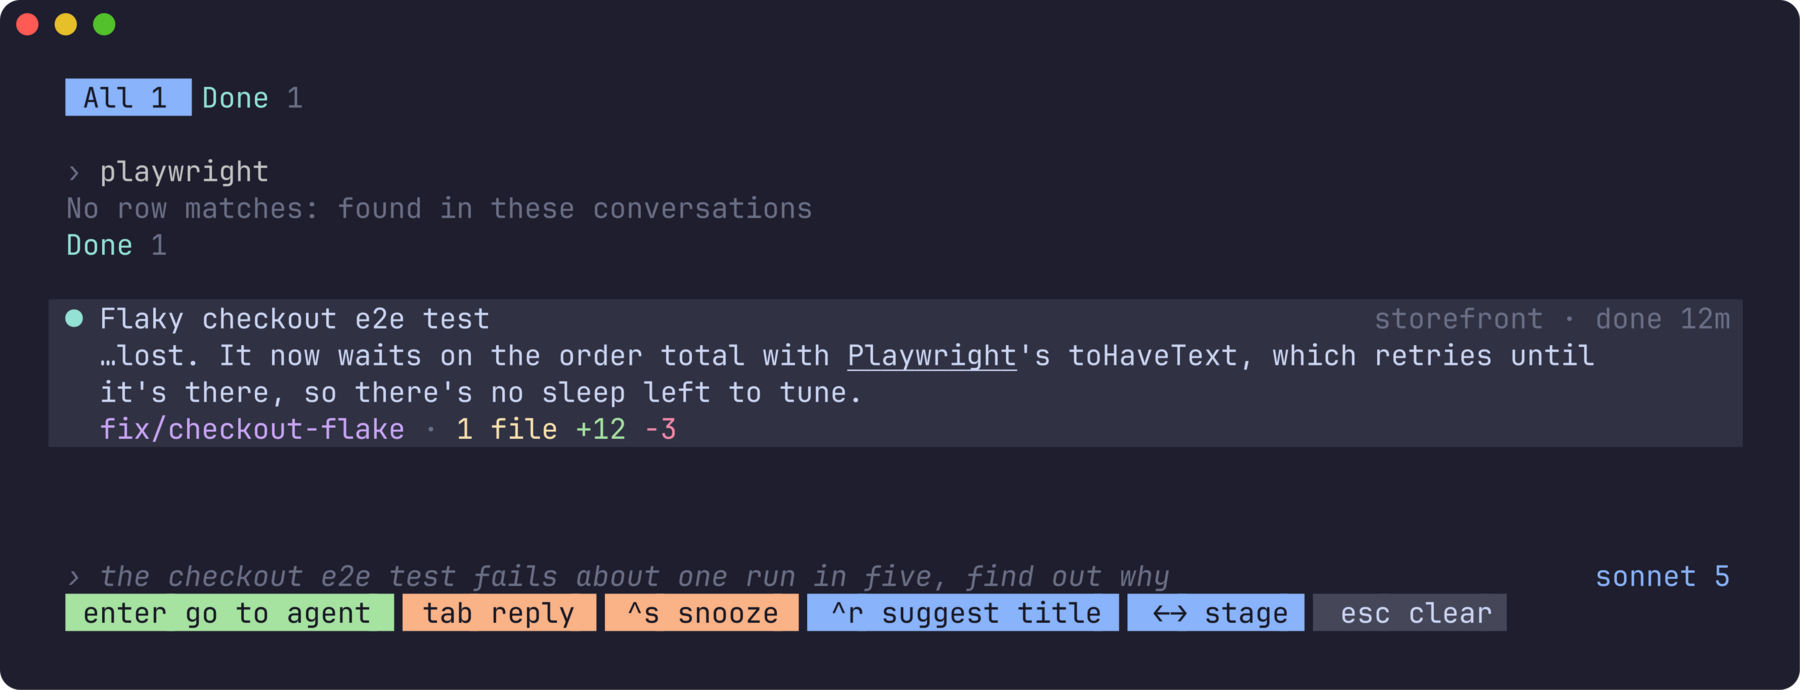
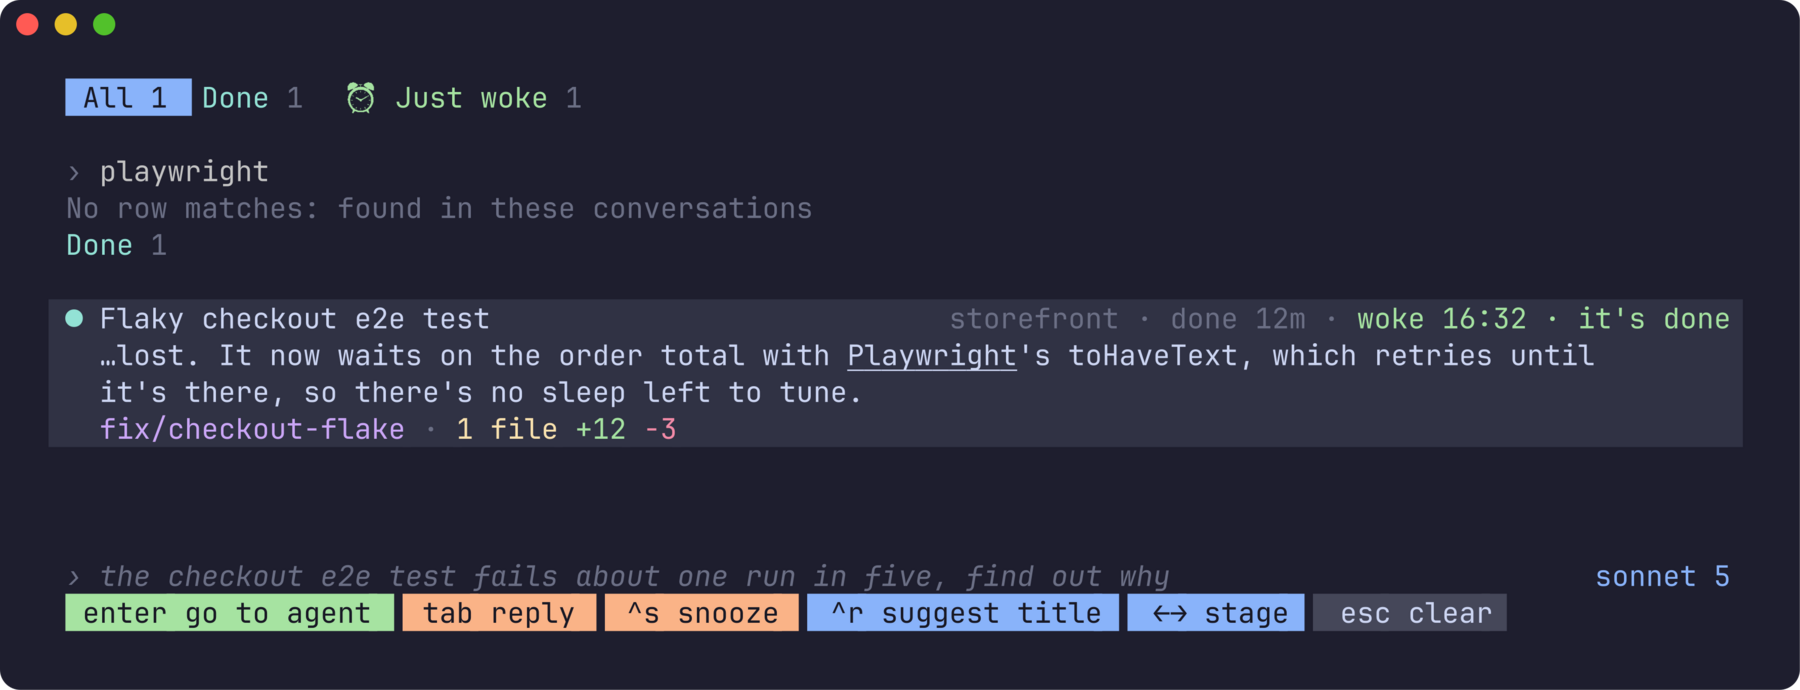
feat: a Just woke tab for what herdr-snooze woke by itself (0.8.0)
An agent with herdr-snooze's snooze_woke token says so on its row
(woke 16:32 · it's done) and is listed under ⏰ Just woke, a tab beside
Snoozed. In All it stays under its own stage. Tabs that don't fit even
shortened close up to a space apart.

diff --git a/stage.go b/stage.go
@@ -69,6 +69,25 @@ const snoozeMark, snoozeBadge = "herdr_snooze", "snoozed"
 // snoozed: herdr-snooze has hidden the agent until a time.
 func snoozed(a agentInfo) bool { return a.Tokens[snoozeMark] != "" }
 
+// snoozeWoke is herdr-snooze's token on an agent that woke by itself lately
+// (its "Just woke" list): when, and why ("14:05 · it's done"). snoozeWokeBadge
+// is its ⏰ for the Agents panel. Neither is listed among a row's tokens.
+const snoozeWoke, snoozeWokeBadge = "snooze_woke", "woke"
+
+// justWoke: herdr-snooze woke the agent by itself a little while ago, and
+// you haven't been to it since.
+func justWoke(a agentInfo) bool { return a.Tokens[snoozeWoke] != "" }
+
+// inTab is whether the tab for stage s lists e: its own stage's, or the
+// Just woke tab's, which lists what herdr-snooze woke by itself lately,
+// whatever stage it's at.
+func inTab(e *entry, s stage) bool {
+	if s == stageWoke {
+		return justWoke(e.agent)
+	}
+	return s == stageAll || stageOf(e) == s
+}
+
 // wakeText is when a snoozed agent wakes, for its row: "until 17:30". The
 // badge before the time is left out: the stage already says it's snoozed,
 // and an emoji's width is the terminal's guess (and freeze's font has none).
@@ -89,7 +108,15 @@ func wakeText(a agentInfo) string {
 }
 
 // stageAll is the tab that lists every stage, grouped under headings.
-const stageAll stage = -1
+// stageWoke is the Just woke tab: not a stage an agent is at (one that just
+// woke is also done, or needs you…), only a tab, beside Snoozed.
+const (
+	stageAll  stage = -1
+	stageWoke stage = -2
+)
+
+// wokeIcon is herdr-snooze's badge on what just woke, on the Just woke tab.
+const wokeIcon = "⏰"
 
 func (s stage) label() string {
 	switch s {
@@ -107,6 +134,8 @@ func (s stage) label() string {
 		return "Merged"
 	case stageSnoozed:
 		return "Snoozed"
+	case stageWoke:
+		return "Just woke"
 	}
 	return "Idle"
 }
@@ -130,6 +159,8 @@ func (s stage) short() string {
 		return "Merged"
 	case stageSnoozed:
 		return snoozeIcon
+	case stageWoke:
+		return wokeIcon
 	}
 	return "Idle"
 }
@@ -150,6 +181,8 @@ func (s stage) style() lipgloss.Style {
 		return styleMerged
 	case stageSnoozed:
 		return snoozedStyle()
+	case stageWoke:
+		return styleOK
 	}
 	return styleIdle
 }
@@ -210,11 +243,17 @@ func (m model) stageTabs() []stageTab {
 	for _, e := range m.entries {
 		if m.matches(e) {
 			counts[stageOf(e)]++
+			if justWoke(e.agent) {
+				counts[stageWoke]++
+			}
 			total++
 		}
 	}
 	tabs := []stageTab{{stage: stageAll, n: total}}
 	for s := stageNeedsYou; s <= stageSnoozed; s++ {
+		if s == stageSnoozed && (counts[stageWoke] > 0 || m.show == stageWoke) {
+			tabs = append(tabs, stageTab{stage: stageWoke, n: counts[stageWoke]})
+		}
 		if counts[s] > 0 || s == m.show {
 			tabs = append(tabs, stageTab{stage: s, n: counts[s]})
 		}
@@ -229,7 +268,9 @@ func (m model) tabBar() (string, []stageTab) {
 	tabs := m.stageTabs()
 	var line string
 	// No name before them: the popup's border has it.
-	for _, short := range []bool{false, true} {
+	// Full labels; then short ones; then short ones a space apart, not two.
+	for pass := range 3 {
+		short, tight := pass > 0, pass > 1
 		line = " "
 		x := lipgloss.Width(line)
 		for i, t := range tabs {
@@ -241,10 +282,14 @@ func (m model) tabBar() (string, []stageTab) {
 				label = t.stage.short()
 			} else if t.stage == stageSnoozed {
 				label = snoozeIcon + " " + label
+			} else if t.stage == stageWoke {
+				label = wokeIcon + " " + label
 			}
 			n := strconv.Itoa(t.n)
 			var cell string
 			switch {
+			case t.stage != m.show && tight:
+				cell = style.UnsetUnderline().Render(label) + styleDim.Render(" "+n) + " "
 			case t.stage != m.show:
 				cell = " " + style.UnsetUnderline().Render(label) + styleDim.Render(" "+n) + " "
 			case t.stage == stageAll:

diff --git a/stage_test.go b/stage_test.go
@@ -140,6 +140,8 @@ func TestClickingATabShowsItsStage(t *testing.T) {
 		want := "All"
 		if tab.stage == stageSnoozed {
 			want = snoozeIcon + " " + tab.stage.label()
+		} else if tab.stage == stageWoke {
+			want = wokeIcon + " " + tab.stage.label()
 		} else if tab.stage != stageAll {
 			want = tab.stage.label()
 		}
@@ -174,7 +176,7 @@ func TestTheTabsFitANarrowPopup(t *testing.T) {
 			t.Errorf("at %d wide the tabs take %d, the last ending at %d", w, got, tabs[len(tabs)-1].x1)
 		}
 	}
-	if line, _ := m.tabBar(); !strings.Contains(ansi.Strip(line), "Review 1  💤 1") {
+	if line, _ := m.tabBar(); !strings.Contains(ansi.Strip(line), "Review 1 ⏰ 1 💤 1") {
 		t.Errorf("not shortened: %q", ansi.Strip(line))
 	}
 }
@@ -228,5 +230,20 @@ func TestASnoozedRowSaysWhenItWakes(t *testing.T) {
 	}
 	if tabs := m.stageTabs(); tabs[len(tabs)-1].stage != stageSnoozed {
 		t.Errorf("last tab %s", tabs[len(tabs)-1].stage.label())
+	}
+}
+
+func TestWhatJustWokeHasATabOfItsOwn(t *testing.T) {
+	m, _ := demoModel(t)
+	m.showStage(stageSnoozed)
+	if len(m.order) != 1 || m.order[0] != "w3:p2" {
+		t.Fatalf("snoozed tab: %v", m.order)
+	}
+	m.showStage(stageWoke)
+	if len(m.order) != 1 || m.order[0] != "w1:p3" {
+		t.Fatalf("just woke tab: %v", m.order)
+	}
+	if v := ansi.Strip(m.View()); !strings.Contains(v, "woke 16:32 · it's done") {
+		t.Errorf("row doesn't say it woke:\n%s", v)
 	}
 }

diff --git a/tui.go b/tui.go
@@ -665,7 +665,7 @@ func (m *model) sortEntries() {
 	}
 	m.order = m.order[:0]
 	for p, e := range m.entries {
-		staged := m.show == stageAll || stageOf(e) == m.show || (m.replying && p == m.replyTo)
+		staged := inTab(e, m.show) || (m.replying && p == m.replyTo)
 		if staged && m.matches(e) {
 			m.order = append(m.order, p)
 		}
@@ -1541,8 +1541,13 @@ func (m model) viewEntry(e *entry, selected bool) []string {
 	wake := ""
 	if snoozed(e.agent) {
 		wake = snoozedStyle().Render(wakeText(e.agent))
-	} else if s := m.inState(e); s != "" {
-		right = append(right, s)
+	} else {
+		if s := m.inState(e); s != "" {
+			right = append(right, s)
+		}
+		if justWoke(e.agent) {
+			wake = styleOK.Render("woke " + strings.TrimSpace(e.agent.Tokens[snoozeWoke]))
+		}
 	}
 	left := " " + agentMark(e.agent.Status, m.spin.View()) + " "
 	style := styleTitle
@@ -1799,7 +1804,7 @@ func shownTokens(tokens map[string]string, only []string) []shownToken {
 		pr, prs, issue := tokens["pr"] != "", tokens["prs"] != "", tokens["issue"] != ""
 		for k := range tokens {
 			if (k == "pr" && prs) || (strings.HasPrefix(k, "pr_") && (pr || prs)) || (strings.HasPrefix(k, "issue_") && issue) ||
-				k == pastPRs || k == snoozeMark || k == snoozeBadge {
+				k == pastPRs || k == snoozeMark || k == snoozeBadge || k == snoozeWoke || k == snoozeWokeBadge {
 				continue
 			}
 			names = append(names, k)

diff --git a/demo.go b/demo.go
@@ -55,7 +55,9 @@ var demoAgents = []demoAgent{
 		recap:   "Moving the billing webhooks to v2 events: handlers and tests are done. Waiting on you to approve running the migration against staging.",
 	},
 	{
-		agent:   agentInfo{PaneID: "w1:p3", Cwd: "/demo/w1-p3", WorkspaceID: "w1", Agent: "claude", Status: "done", Title: "Flaky checkout e2e test", StateChangeSeq: 9},
+		// Snoozed till it was done, and just woke: herdr-snooze's tokens.
+		agent: agentInfo{PaneID: "w1:p3", Cwd: "/demo/w1-p3", WorkspaceID: "w1", Agent: "claude", Status: "done", Title: "Flaky checkout e2e test", StateChangeSeq: 9,
+			Tokens: map[string]string{snoozeWoke: "16:32 · it's done", snoozeWokeBadge: "⏰"}},
 		session: "0b3c9a51-5d7e-4f7a-9c35-1a2b3c4d5e02", age: 12 * time.Minute, current: true,
 		meta: sessionMeta{Branch: "fix/checkout-flake", Model: "claude-sonnet-5",
 			LastPrompt: "the checkout e2e test fails about one run in five, find out why"},

diff --git a/tui_test.go b/tui_test.go
@@ -98,7 +98,7 @@ func TestTheViewShowsStatusTitleAndRecap(t *testing.T) {
 	m.height = 52 // room for every agent and its stage's heading
 	v := ansi.Strip(m.View())
 	for _, want := range []string{
-		"All 7  Needs you 1  Done 1  Idle 1  Working 2  In review 1  💤 Snoozed 1",
+		"All 7  Needs you 1  Done 1  Idle 1  Working 2  In review 1  ⏰ Just woke 1  💤 Snoozed 1",
 		"Needs you 1", "Done 1", "Idle 1", "Working 2", "In review 1", "Snoozed 1",
 		"◉ Move billing webhooks to v2 events", "billing · waiting 2m",
 		"billing/webhooks-v2 · 6 files +214 −58 ↑2 · 4/5 tasks · BIL-207 In Progress · #412",

diff --git a/README.md b/README.md
@@ -7,7 +7,7 @@ remembering what each one was doing is the pain. herdr-recap is a
 [herdr](https://herdr.dev) popup that tells you, per agent, where it got to
 and whose move it is.
 
-![The popup on the demo's agents, grouped by stage under tabs: one that needs you, one done, one idle, two working, one in review and one snoozed](docs/images/agents.png)
+![The popup on the demo's agents, grouped by stage under tabs: one that needs you, one done, one idle, two working, one in review, one that just woke and one snoozed](docs/images/agents.png)
 
 - **Recaps are written while you're away.** Claude Code's own `/recap`, or
   the agent's equivalent, run in a throwaway fork, so your agent's
@@ -103,6 +103,7 @@ Open it (`prefix+alt+r`) and read down. Each agent is a few lines:
   | **Working** | at work |
   | **In review** | idle, its PR open with nothing wrong with it |
   | **Merged** | idle, its PR merged or closed and nothing new in its worktree |
+  | **Just woke** | woken by [herdr-snooze](https://github.com/mrolafsson/herdr-snooze) by itself lately, and not yet looked at: a tab, not a stage (in All it's under its own) |
   | **Snoozed** | hidden by [herdr-snooze](https://github.com/mrolafsson/herdr-snooze) until a time, whatever it's doing |
 
   What an agent is doing right now wins over its PR: start one on the next
@@ -281,6 +282,9 @@ they're installed and enabled: nothing to set up.
   listed under *Snoozed*, the last tab, whatever it's doing: you've said it
   can wait. The right of its row says when it wakes (*until 17:30*), or
   what it's waiting for (*till done*, *till merged*), in snooze's colour.
+  One that Snooze woke by itself lately says so on its row (*woke 16:32 ·
+  it's done*), and is listed under *⏰ Just woke*, a tab beside Snoozed,
+  until you've been to it.
   `ctrl+s` opens the Snooze popup on the selected agent, to snooze it (a
   snoozed one, for a new time); once it's done, Recap is back on the same
   agent. `ctrl+w` on a snoozed agent wakes it there and then, no

diff --git a/CHANGELOG.md b/CHANGELOG.md
@@ -1,5 +1,13 @@
 # Changelog
 
+## 0.8.0 - 2026-10-13
+
+- **What just woke.** An agent that herdr-snooze woke by itself (its time
+  was up, or it was done) says so on its row, `woke 16:32 · it's done`,
+  and has a tab of its own, *⏰ Just woke*, beside Snoozed, until you've
+  been to it. In All it stays under its stage (Done, Needs you…). When the
+  tabs don't fit even shortened, they close up to a space apart.
+
 ## 0.7.1 - 2026-10-13
 
 - **A snooze until something happens says so**: an agent herdr-snooze has
